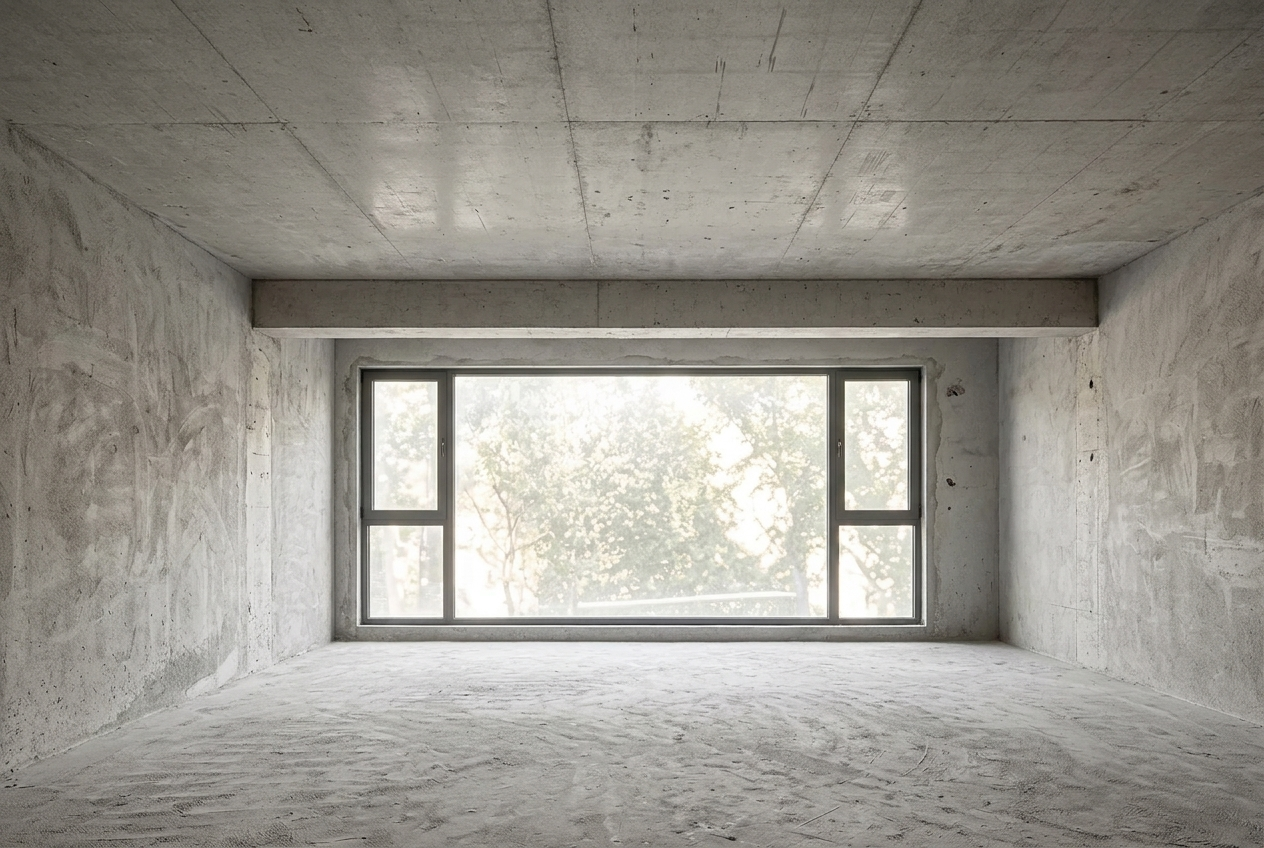
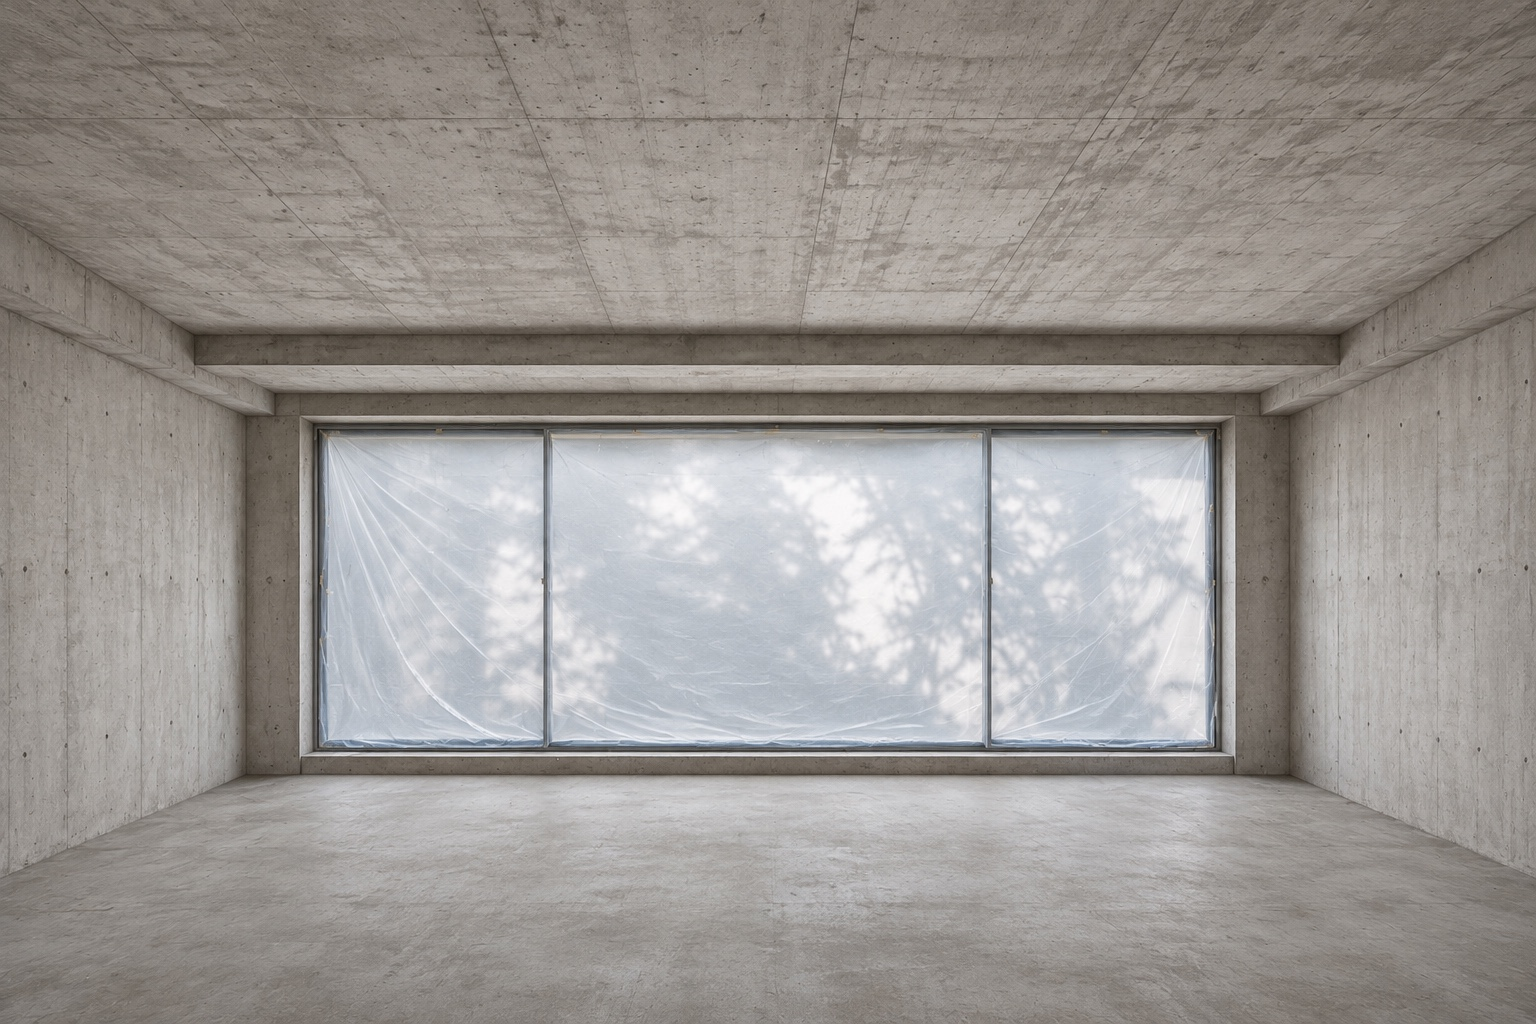
Align room comparison photography and test every construction stage

diff --git a/prototype/wireframe/oak.js b/prototype/wireframe/oak.js
@@ -836,11 +836,17 @@ function compareWidget(beforeSrc, afterSrc, rightLabel = '完成', initialSplit 
     oninput:event => apply(event.target.value),
   });
   apply(split);
+  const rightTag = el('span', {class:'compare-tag-r'}, rightLabel);
   const stage = el('div', {class:'compare-stage media compare'},
     before, after, divider, handle, range,
     el('span', {class:'compare-tag-l'}, '毛胚'),
-    el('span', {class:'compare-tag-r'}, rightLabel));
-  return {stage, before, after, getSplit: () => split};
+    rightTag);
+  const setAfter = (src, label) => {
+    after.src = src;
+    after.alt = label + '示意';
+    rightTag.textContent = label;
+  };
+  return {stage, before, after, getSplit: () => split, setAfter};
 }
 
 const drawingImage = (sheet, className = 'drawing') => el('img', {class:className,
@@ -1868,9 +1874,12 @@ const pages = {
     const room = rooms[draft.room];
     const stageIdx = draft.comparisonStage;
     const notice = el('small', {role:'status'});
+    const stagePhoto = index => draft.room === 0 && index === stages.length - 1
+      ? './imagery/hq-living-lighting.jpg'
+      : roomScene(draft.room, index, draft.appliedLayout);
     const cmp = compareWidget(
-      roomScene(draft.room, 0, draft.appliedLayout),
-      projectPhoto(stageIdx),
+      stagePhoto(0),
+      stagePhoto(stageIdx),
       stages[stageIdx],
       draft.compareSplit,
       val => { draft.compareSplit = val; },
@@ -1880,9 +1889,16 @@ const pages = {
       workPanel({
         page:'compare', addon:true, eyebrowText:'02 從毛胚到完成', titleText:'從毛胚到完成',
         body:[
-          liangBubble(room + '・拖曳圖片上的把手，或點選施工階段。'),
+          liangBubble(room + '・施工階段示意。拖曳圖片上的把手，或點選施工階段。'),
           el('ol', {class:'stage-steps', role:'group', 'aria-label':'施工階段'}, stages.map((name, i) =>
-            el('li', {}, el('button', {type:'button', class:'stage-step-btn', 'aria-pressed':String(i === stageIdx), onclick:refresh(() => { draft.comparisonStage = i; })},
+            el('li', {}, el('button', {type:'button', class:'stage-step-btn', 'aria-pressed':String(i === stageIdx), onclick:event => {
+              const selected = event.currentTarget;
+              selected.closest('ol').querySelector('[aria-pressed="true"]').setAttribute('aria-pressed', 'false');
+              selected.setAttribute('aria-pressed', 'true');
+              draft.comparisonStage = i;
+              notice.textContent = '';
+              cmp.setAfter(stagePhoto(i), name);
+            }},
               el('span', {class:'stage-step-num'}, String(i + 1)),
               el('span', {style:'display:flex;flex-direction:column;line-height:1.4'}, el('b', {}, name), el('small', {}, (draft.room === 0 ? stageNotes : genericStageNotes)[i])))))),
           actions(button('存成對比圖', async () => {

diff --git a/prototype/wireframe/room-scenes.js b/prototype/wireframe/room-scenes.js
@@ -6,14 +6,11 @@ const looks = ['none', 'sepia(.22) saturate(1.2) contrast(1.12) brightness(.9)',
 
 export function roomScene(room, stage = stages.length - 1, openKitchen = false) {
   const name = room === 2 && openKitchen ? 'open-kitchen' : rooms[room];
-  if (stage === 0 && name !== 'open-kitchen') return './imagery/hq-' + name + '-bare.jpg';
-  if (stage === stages.length - 1 && name !== 'open-kitchen') {
+  if (stage === 0) return './imagery/hq-' + name + '-bare.jpg';
+  if (stage === stages.length - 1) {
     return room === 0 ? './imagery/living-4.webp' : './imagery/hq-' + name + '-finished.jpg';
   }
-  if (name !== 'open-kitchen' && stage >= 1 && stage <= 3) {
-    return './imagery/hq-' + name + '-' + stage + '.jpg';
-  }
-  return './imagery/' + name + '-' + stage + '.webp';
+  return './imagery/hq-' + name + '-' + stage + '.jpg';
 }
 
 export function finishFilter(style, stage = stages.length - 1) {
